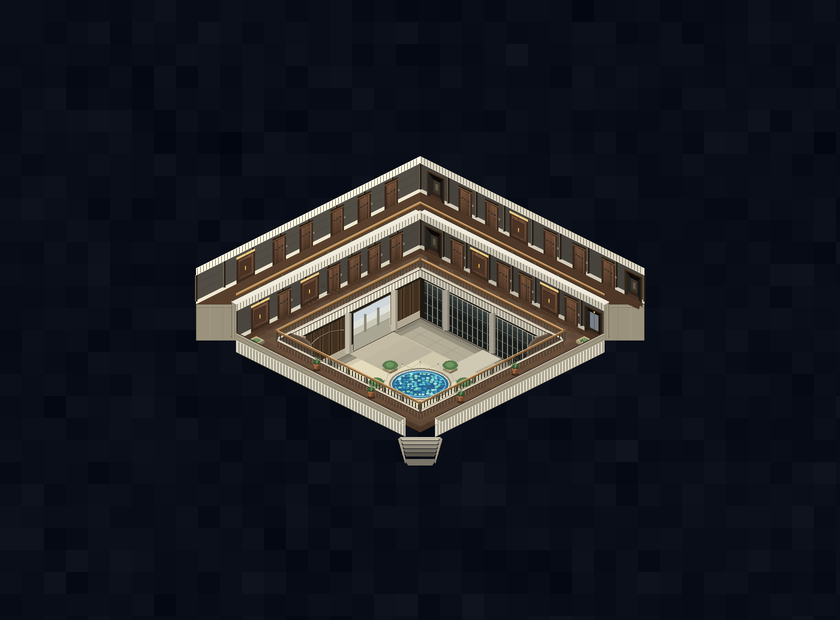
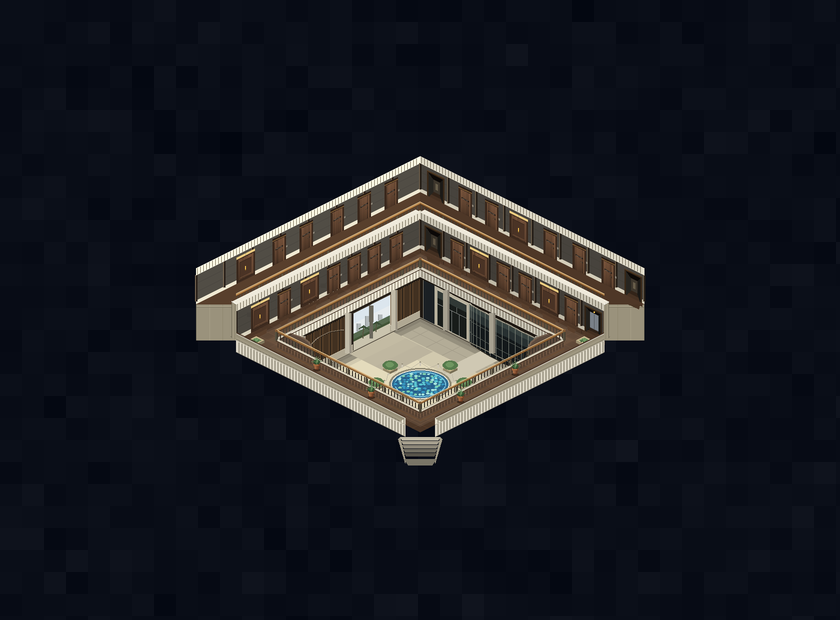
Capitol court: the glass bows, the doors beside it, a real view out
Two fixes on the SETTLED layout (glass on Diamond Head, one open bay
on ʻEwa) — an intermediate pass that replaced the whole layout with an
open colonnade on both runs was rejected outright and is reverted;
only the rendering inside each section changed.

court_glass is two sections now. The CENTRAL one is CURVED — the
chamber drum's glazing bulging into the court — and on a flat iso
face the curve is three cues that only work together: mullions spaced
by ANGLE (cos-mapped, dense at the ends, opening mid-arc — a
cylinder's foreshortening), the SILL BOWING DOWN toward the viewer at
mid-arc (9px, head 3px), and the sky-reflection band following the
bow. Evenly spaced bars on a straight run read flat, which is what it
drew before. The section to its LEFT is the chamber's GLASS ENTRANCE
DOORS: paired glazed leaves under a wide transom in a pale surround,
per the Senate-entrance photo.

court_opening keeps its bay but shows the HABS courtyard photo's view
out: sky GLARE, far towers standing on a shaded tree line, sunlit
plaza, palms as trunk + FAN (a disc on a stick is a street lamp), and
one exterior pier in silhouette so the bay reads as a passage UNDER
the building, not a window. The broken silhouette is what says
"outdoors" — flat bands did not. CAP_V 11.

Changed region(s): [[0.4952, 0.4597, 0.65, 0.5823], [0.4024, 0.4903, 0.4643, 0.5823]]

diff --git a/site/js/main.js b/site/js/main.js
@@ -27,7 +27,7 @@ const MAP_V = 8;
    map/capitol.json come out of ONE run of tools/render_capitol.py and
    are only valid as a set (hotspot px are baked against the image).
    Hand-bumped, same rule as MAP_V. */
-const CAP_V = 10;
+const CAP_V = 11;
 /* Same rule for the House Finance office bake (tools/render_office.py:
    office_finance.png + map/office_finance.json). */
 const OFF_V = 2;

diff --git a/site/index.html b/site/index.html
@@ -236,6 +236,6 @@
   <!-- UI sound: synthesised at runtime, no audio files. Loaded
        BEFORE main.js, which calls window.SFX from its handlers. -->
   <script src="js/sfx.js?v=20260819125954"></script>
-  <script src="js/main.js?v=20260824142908"></script>
+  <script src="js/main.js?v=20260824150358"></script>
 </body>
 </html>

diff --git a/tools/render_capitol.py b/tools/render_capitol.py
@@ -524,40 +524,99 @@ def court_bay_pt(e0, e1, t, y):
     return (b[0], b[1] + y)
 
 
-def court_glass(d, e0, e1, f, top, bot, t0=0.03, t1=0.97):
-    """THE GLASS CURTAIN WALL at courtyard level (2026-08-24, user:
-    "show the glass facade in particular", from the executive-floor
-    atrium photo). The court's ground storey is not a solid wall — one
-    whole side is a tall glazed screen on a tight mullion grid, dark
-    against the daylit court, and it is the most distinctive thing in
-    the photograph after the balconies themselves.
+def court_glass(d, e0, e1, f, top, bot):
+    """THE GLASS WALL at courtyard level on the Diamond Head run
+    (executive-floor photo). Two sections, as in the photograph:
 
-    Drawn as: dark glazing, a lighter SKY REFLECTION in the upper
-    third (glass is only legible as glass when it reflects something),
-    a fine even mullion run and three transoms, and a bright head
-    reveal where the beam lands on it. The mullions go through
-    even_run for the same reason every other repeating run does.
+    - the CENTRAL section is CURVED (user, 2026-08-24: "the central
+      glass section should look more curved") — it is the chamber
+      drum's glazing bulging into the court. On a flat iso face the
+      curve is carried by three cues working together: the mullions
+      are spaced by ANGLE (dense at the ends, opening toward the
+      middle — a cylinder's foreshortening), the SILL BOWS DOWN
+      toward the viewer at mid-arc while the head bows less, and the
+      sky-reflection band follows the bow. Any one alone reads flat.
+    - the section to its LEFT is the chamber's GLASS ENTRANCE DOORS
+      (user: "the section to the left of it is the glass doors"):
+      paired glazed leaves under a wide transom in a pale surround,
+      per the Senate-entrance photo.
+
+    Dark neutral glazing throughout — a teal pass read as water.
     """
-    p0, p1 = court_bay_pt(e0, e1, t0, top), court_bay_pt(e0, e1, t1, top)
     dy = bot - top
+
+    def face_pt(t, yfrac):
+        b = lerp(e0, e1, t)
+        return (b[0], b[1] + top + dy * yfrac)
+
+    # ---- the flat filler panes at the far left edge
+    for ta, tb in ((0.02, 0.10),):
+        p0, p1 = face_pt(ta, 0), face_pt(tb, 0)
+        d.polygon([p0, p1, (p1[0], p1[1] + dy), (p0[0], p0[1] + dy)],
+                  fill=shade(hx("#20262a"), f))
+        d.line([p0, (p0[0], p0[1] + dy)],
+               fill=shade(hx("#a8a08c"), f), width=1)
+
+    # ---- the GLASS DOORS, left of the curve
+    ta, tb = 0.10, 0.34
+    p0, p1 = face_pt(ta, 0), face_pt(tb, 0)
     d.polygon([p0, p1, (p1[0], p1[1] + dy), (p0[0], p0[1] + dy)],
-              fill=shade(hx("#1a2021"), f))
-    # sky reflection: the upper panes catch the open rotunda above
-    for k, (lo, hi, c) in enumerate((
-            (0.00, 0.13, "#3c4746"), (0.13, 0.26, "#2f3a3a"),
-            (0.26, 0.40, "#242c2d"))):
-        d.polygon([(p0[0], p0[1] + dy * lo), (p1[0], p1[1] + dy * lo),
-                   (p1[0], p1[1] + dy * hi), (p0[0], p0[1] + dy * hi)],
-                  fill=shade(hx(c), f))
-    for b in even_run(p0, p1, 10):                    # mullions
-        d.line([(b[0], b[1] + 1), (b[0], b[1] + dy - 1)],
-               fill=shade(hx("#a8a08c"), f), width=2)
-    for fr in (0.30, 0.58, 0.84):                     # transoms
-        d.line([(p0[0], p0[1] + dy * fr), (p1[0], p1[1] + dy * fr)],
-               fill=shade(hx("#8f8874"), f), width=1)
-    d.line([p0, p1], fill=shade(hx("#d9d2bc"), f), width=2)   # head
-    d.line([(p0[0], p0[1] + dy), (p1[0], p1[1] + dy)],
-           fill=shade(hx("#6d6656"), f), width=1)
+              fill=shade(hx("#d5cdb6"), f))            # pale surround
+    q0, q1 = face_pt(ta + 0.02, 0.10), face_pt(tb - 0.02, 0.10)
+    qdy = dy * 0.88
+    d.polygon([q0, q1, (q1[0], q1[1] + qdy), (q0[0], q0[1] + qdy)],
+              fill=shade(hx("#1d211f"), f))            # dark reveal
+    # transom over the leaves, then the leaves
+    d.line([(q0[0], q0[1] + qdy * 0.38), (q1[0], q1[1] + qdy * 0.38)],
+           fill=shade(hx("#b0b4b0"), f), width=1)
+    for k in range(1, 4):                              # stiles: 4 leaves
+        t = ta + 0.02 + (tb - ta - 0.04) * k / 4
+        b0 = face_pt(t, 0.10)
+        d.line([(b0[0], b0[1] + qdy * 0.38), (b0[0], b0[1] + qdy)],
+               fill=shade(hx("#9aa0a0"), f), width=1)
+    for k in (1, 2):                                   # transom mullions
+        t = ta + 0.02 + (tb - ta - 0.04) * k / 3
+        b0 = face_pt(t, 0.10)
+        d.line([(b0[0], b0[1]), (b0[0], b0[1] + qdy * 0.36)],
+               fill=shade(hx("#8f958f"), f), width=1)
+    # glazing glints on the upper leaves
+    d.polygon([q0, q1, (q1[0], q1[1] + qdy * 0.20),
+               (q0[0], q0[1] + qdy * 0.20)],
+              fill=shade(hx("#39433f"), f))
+    d.line([(q0[0], q0[1] - 2), (q1[0], q1[1] - 2)],
+           fill=shade(hx("#e2dbc6"), f), width=2)      # lit head
+
+    # ---- the CURVED section
+    ta, tb = 0.34, 0.98
+    n = 22
+    bow_s, bow_h = 9, 3        # sill and head bow, px, at mid-arc
+    tops, sills = [], []
+    for i in range(n + 1):
+        u = i / n
+        # angle-mapped param: cos spacing = cylinder foreshortening
+        t = ta + (tb - ta) * (0.5 - 0.5 * math.cos(math.pi * u))
+        bow = math.sin(math.pi * u)
+        tops.append(face_pt(t, 0)[0:2])
+        tops[-1] = (tops[-1][0], tops[-1][1] + round(bow_h * bow))
+        b = face_pt(t, 1.0)
+        sills.append((b[0], b[1] + round(bow_s * bow)))
+    d.polygon(tops + sills[::-1], fill=shade(hx("#171d1f"), f))
+    # sky reflection following the bow, upper third
+    refl = [lerp(pt, pb, 0.34) for pt, pb in zip(tops, sills)]
+    d.polygon(tops + refl[::-1], fill=shade(hx("#2e3839"), f))
+    d.polygon(tops + [lerp(pt, pb, 0.15) for pt, pb
+                      in zip(tops, sills)][::-1],
+              fill=shade(hx("#414d4b"), f))
+    for i in range(n + 1):                             # angle mullions
+        d.line([tops[i], sills[i]], fill=shade(hx("#9aa093"), f),
+               width=1)
+    for tfr in (0.42, 0.72):                           # transom rails
+        arc = [lerp(pt, pb, tfr) for pt, pb in zip(tops, sills)]
+        d.line(arc, fill=shade(hx("#6f766e"), f), width=1)
+    d.line(tops, fill=shade(hx("#d9d2bc"), f), width=2)   # beam over
+    d.line([(x, y + 2) for x, y in tops],
+           fill=shade(hx("#8f8874"), f), width=1)
+    d.line(sills, fill=shade(hx("#3a352c"), f), width=2)  # sill shadow
 
 
 def court_opening(d, e0, e1, t0, t1, f, top, bot):
@@ -575,23 +634,48 @@ def court_opening(d, e0, e1, t0, t1, f, top, bot):
     """
     q0, q1 = court_bay_pt(e0, e1, t0, top), court_bay_pt(e0, e1, t1, top)
     dy = bot - top
-    for lo, hi, c in ((0.00, 0.26, "#cfd8dd"),        # sky
-                      (0.26, 0.44, "#dfe2dc"),
-                      (0.44, 0.62, "#c9c8b6"),        # far greenery/haze
-                      (0.62, 1.00, "#a9a693")):       # plaza slab
+
+    def band(lo, hi, c):
         d.polygon([(q0[0], q0[1] + dy * lo), (q1[0], q1[1] + dy * lo),
                    (q1[0], q1[1] + dy * hi), (q0[0], q0[1] + dy * hi)],
                   fill=shade(hx(c), f))
-    d.line([(q0[0], q0[1] + dy * 0.62), (q1[0], q1[1] + dy * 0.62)],
-           fill=shade(hx("#8d8a78"), f), width=1)
-    # the exterior colonnade, seen through: slim silhouettes standing
-    # on the horizon. Two is enough — this is a glimpse, not a view.
+
+    # what the HABS courtyard photo actually shows through the bays:
+    # bright sky-glare, the far towers standing on a shaded tree
+    # line, then the sunlit plaza. NOT flat colour bands — the broken
+    # tower/palm silhouette is what reads as "outdoors" at this size.
+    band(0.00, 1.00, "#dce6ee")                       # sky glare
+    band(0.30, 0.52, "#e7ecef")                       # horizon haze
     span = q1[0] - q0[0]
-    for fr in (0.34, 0.68):
+    for fr, wd, ht in ((0.16, 9, 0.20), (0.42, 12, 0.26),
+                       (0.74, 8, 0.15)):              # far towers
         x = round(q0[0] + span * fr)
-        yb = q0[1] + (q1[1] - q0[1]) * fr
-        d.rectangle([x - 2, yb + dy * 0.20, x + 2, yb + dy * 0.66],
-                    fill=shade(hx("#8c8878"), f))
+        yb = q0[1] + (q1[1] - q0[1]) * fr + dy * 0.56
+        d.rectangle([x - wd // 2, yb - dy * ht, x + wd // 2, yb],
+                    fill=shade(hx("#b3b9bb"), f))
+        d.rectangle([x - wd // 2, yb - dy * ht, x - wd // 2 + 1, yb],
+                    fill=shade(hx("#969c9e"), f))
+    band(0.56, 0.70, "#55694e")                       # tree line
+    band(0.70, 0.77, "#425537")
+    band(0.77, 1.00, "#cac4ae")                       # sunlit plaza
+    # palms: a trunk and a FAN — a disc on a stick is a street lamp
+    for fr, ht in ((0.28, 0.32), (0.62, 0.26)):
+        x = round(q0[0] + span * fr)
+        yb = q0[1] + (q1[1] - q0[1]) * fr + dy * 0.80
+        ty = yb - dy * ht
+        d.line([(x, yb), (x + 1, ty)],
+               fill=shade(hx("#57553f"), f), width=2)
+        for ang in (-2.5, -1.2, -0.4, 0.4, 1.2, 2.5):
+            d.line([(x + 1, ty),
+                    (x + 1 + ang * 4, ty + abs(ang) * 1.6 + 3)],
+                   fill=shade(hx("#3c4f38"), f), width=2)
+    # one exterior pier of the colonnade, in silhouette — the bay is a
+    # passage under the building, not a window
+    x = round(q0[0] + span * 0.50)
+    yb = q0[1] + (q1[1] - q0[1]) * 0.50
+    d.polygon([(x - 4, yb + dy * 0.06), (x + 4, yb + dy * 0.06),
+               (x + 3, yb + dy * 0.92), (x - 3, yb + dy * 0.92)],
+              fill=shade(hx("#6a675c"), f))
     d.line([q0, (q0[0], q0[1] + dy)], fill=shade(hx("#2a231c"), f),
            width=2)                                    # dark reveal
     d.line([q1, (q1[0], q1[1] + dy)], fill=shade(hx("#e8e2ce"), f),

diff --git a/CLAUDE.md b/CLAUDE.md
@@ -2048,18 +2048,36 @@ user's call).
     and the opening to the outside as well on the left wall"). Both
     runs used to be the same koa-slat screen, which is why the court
     read as a sealed box. Now:
-    - **Diamond Head = a full-height GLASS CURTAIN WALL**
-      (`court_glass`): dark neutral glazing, a sky reflection in the
-      upper third — glass is only legible as glass when it reflects
-      something — an even mullion run through `even_run` (pitch 10)
-      and three transoms. It runs to the floor, so it takes no
-      plinth. Keep the glazing NEUTRAL: a first pass was teal and
-      read as water, not glass.
-    - **ʻEwa = dark arcade with ONE BAY OPEN TO THE STREET**
-      (`court_opening` + `OPEN_BAY`): sky, the exterior colonnade in
-      silhouette on a horizon, plaza under it, a dark jamb reveal one
-      side and a lit arris the other. The bay skips the slats, the
-      plinth and the arch.
+    - **Diamond Head = the GLASS WALL, in TWO sections**
+      (`court_glass`; reworked 2026-08-24 from the HABS courtyard
+      photo). The CENTRAL section is CURVED — it is the chamber
+      drum's glazing bulging into the court, and on a flat iso face
+      the curve is carried by three cues that only work TOGETHER:
+      mullions spaced by ANGLE (cos-mapped — dense at the ends,
+      opening mid-arc, a cylinder's foreshortening), the SILL BOWING
+      DOWN toward the viewer at mid-arc (9px, head 3px), and the
+      sky-reflection band following the bow. Any one alone reads
+      flat; the first pass had evenly spaced bars on a straight run
+      and did. The section to its LEFT is the chamber's GLASS
+      ENTRANCE DOORS: paired glazed leaves under a wide transom in a
+      pale surround (Senate-entrance photo). Keep the glazing
+      NEUTRAL: a teal pass read as water, not glass. No plinth — the
+      glass runs to the floor.
+      NB an intermediate pass replaced this whole layout with an
+      open colonnade on both runs and the user rejected it outright
+      ("you just messed the whole thing up") — the LAYOUT (glass on
+      Diamond Head, one open bay on ʻEwa, koa slats elsewhere) is
+      settled; only the rendering inside each section was wrong.
+    - **ʻEwa = dark arcade with ONE BAY OPEN TO THE OUTSIDE**
+      (`court_opening` + `OPEN_BAY`): what shows through it is the
+      HABS photo's view out — sky GLARE, far towers standing on a
+      shaded tree line, sunlit plaza, palms drawn as trunk + FAN
+      (a disc on a stick is a street lamp), and one exterior pier in
+      silhouette so the bay reads as a passage UNDER the building,
+      not a window. The broken silhouette is what says "outdoors";
+      the first version's flat bands + two stubby colonnade
+      rectangles did not. Dark jamb reveal one side, lit arris the
+      other; the bay skips the slats, the plinth and the arch.
     - **`OPEN_BAY` is at the TOP POINT end (0.53–0.79), not the ʻEwa
       corner, and that is forced by the well.** The court floor is a
       storey down, so the near end of each wall — its foot included —
